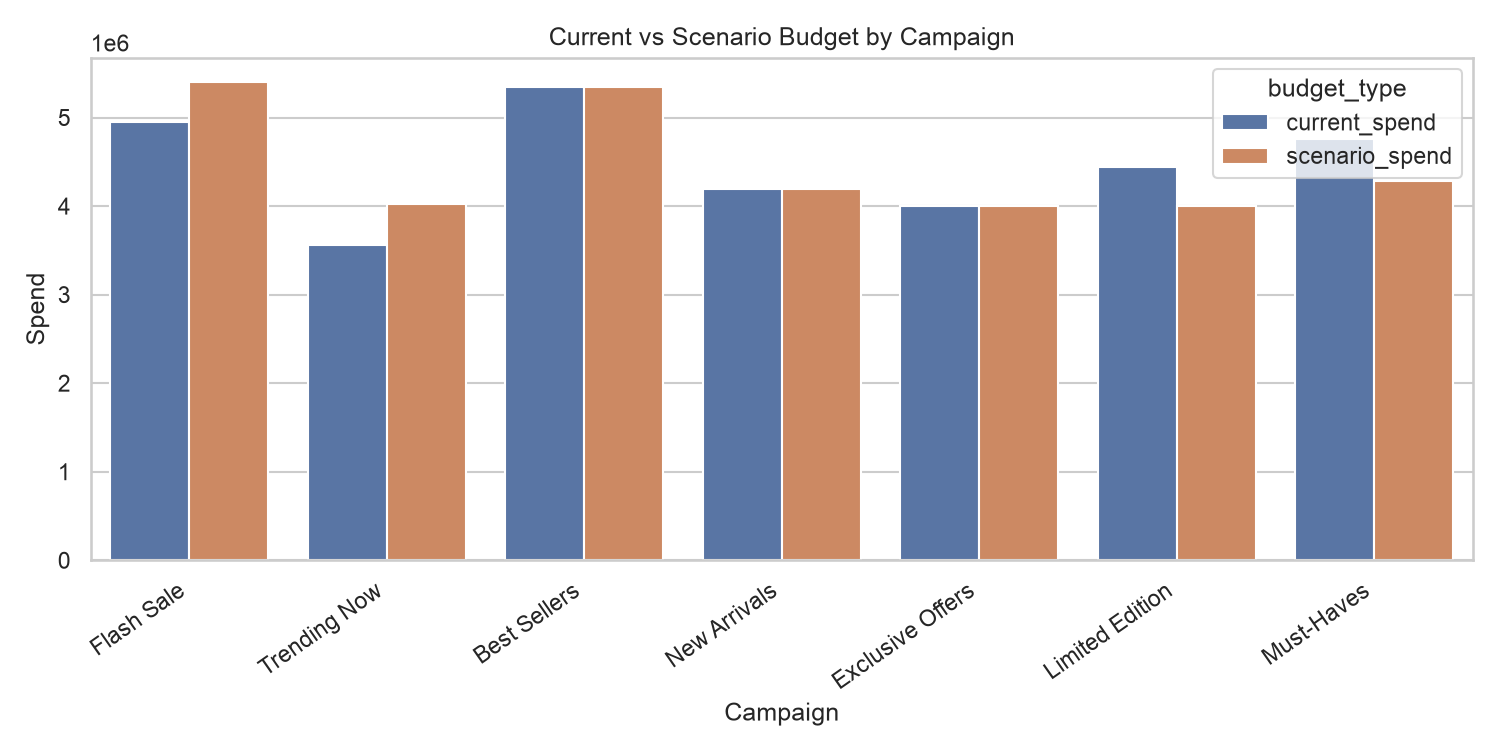
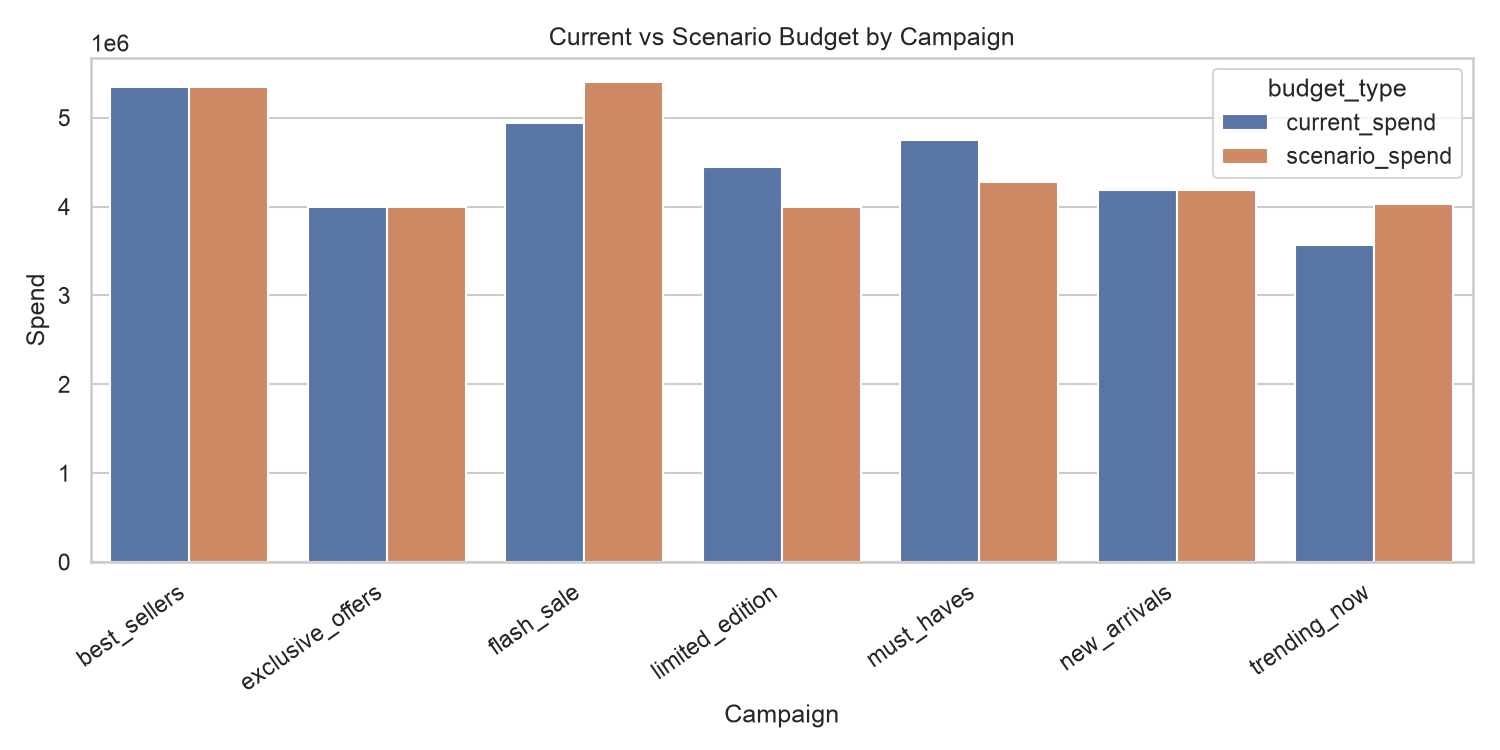
Connect scenario simulator to fitted model, add LOOCV evaluation

diff --git a/src/scenarios.py b/src/scenarios.py
@@ -3,6 +3,7 @@ import pandas as pd
 import numpy as np
 
 WEEKLY_INPUT_PATH = Path("outputs/weekly_campaign_dataset.csv")
+MODEL_INPUT_PATH = Path("outputs/campaign_model_dataset.csv")
 SCENARIO_OUTPUT_PATH = Path("outputs/campaign_scenario_results.csv")
 
 
@@ -36,69 +37,95 @@ def summarize_campaign_performance(weekly_campaign: pd.DataFrame) -> pd.DataFram
     return campaign_perf.sort_values("roas", ascending=False)
 
 
-def simulate_campaign_budget_shift(
+def campaign_to_col(name: str) -> str:
+    return f"spend_{name.strip().lower().replace(' ', '_').replace('-', '_')}"
+
+
+def simulate_campaign_budget_shift_model(
+    model,
+    model_df: pd.DataFrame,
     campaign_perf: pd.DataFrame,
     shift_pct: float = 0.10,
     top_n: int = 2,
     bottom_n: int = 2,
-) -> pd.DataFrame:
-    campaign_perf = campaign_perf.sort_values("roas", ascending=False).copy()
+) -> dict:
+    """Reallocates budget from bottom-ROAS to top-ROAS campaigns, then re-predicts
+    revenue with the fitted Ridge model instead of assuming flat ROAS.
+    """
+    ranked = campaign_perf.sort_values("roas", ascending=False)
+    top_campaigns = ranked.head(top_n)["campaign"].tolist()
+    bottom_campaigns = ranked.tail(bottom_n)["campaign"].tolist()
 
-    if campaign_perf["campaign"].nunique() < 2:
-        raise ValueError("Need at least 2 campaigns for campaign-level budget reallocation.")
+    top_cols = [campaign_to_col(c) for c in top_campaigns]
+    bottom_cols = [campaign_to_col(c) for c in bottom_campaigns]
 
-    top_campaigns = campaign_perf.head(top_n)["campaign"].tolist()
-    bottom_campaigns = campaign_perf.tail(bottom_n)["campaign"].tolist()
+    feature_cols = [c for c in model_df.columns if c not in ["week_start", "revenue"]]
+    baseline_X = model_df[feature_cols].copy()
+    scenario_X = baseline_X.copy()
 
-    current_budget = campaign_perf.set_index("campaign")["spend"].to_dict()
-    scenario_budget = current_budget.copy()
+    shift_amounts = baseline_X[bottom_cols] * shift_pct
+    scenario_X[bottom_cols] = baseline_X[bottom_cols] - shift_amounts
+    weekly_total_shift = shift_amounts.sum(axis=1)
+    for col in top_cols:
+        scenario_X[col] = baseline_X[col] + weekly_total_shift / len(top_cols)
 
-    total_shift = 0
-    for campaign in bottom_campaigns:
-        shift_amt = current_budget[campaign] * shift_pct
-        scenario_budget[campaign] -= shift_amt
-        total_shift += shift_amt
+    baseline_pred = model.predict(baseline_X)
+    scenario_pred = model.predict(scenario_X)
 
-    for campaign in top_campaigns:
-        scenario_budget[campaign] += total_shift / len(top_campaigns)
+    weekly_results = pd.DataFrame({
+        "week_start": model_df["week_start"],
+        "baseline_predicted_revenue": baseline_pred,
+        "scenario_predicted_revenue": scenario_pred,
+    })
+    weekly_results["revenue_lift"] = (
+        weekly_results["scenario_predicted_revenue"] - weekly_results["baseline_predicted_revenue"]
+    )
 
-    scenario_df = pd.DataFrame({
-        "campaign": list(current_budget.keys()),
-        "current_spend": list(current_budget.values()),
-        "scenario_spend": [scenario_budget[c] for c in current_budget.keys()],
+    spend_summary = pd.DataFrame({
+        "campaign": [c.replace("spend_", "") for c in feature_cols if c.startswith("spend_")],
+        "current_spend": [baseline_X[c].sum() for c in feature_cols if c.startswith("spend_")],
+        "scenario_spend": [scenario_X[c].sum() for c in feature_cols if c.startswith("spend_")],
     })
 
-    scenario_df = scenario_df.merge(
-        campaign_perf[["campaign", "roas", "conversion_rate"]],
-        on="campaign",
-        how="left",
-    )
+    totals = {
+        "total_baseline_predicted_revenue": weekly_results["baseline_predicted_revenue"].sum(),
+        "total_scenario_predicted_revenue": weekly_results["scenario_predicted_revenue"].sum(),
+        "total_predicted_revenue_lift": weekly_results["revenue_lift"].sum(),
+    }
 
-    scenario_df["projected_revenue_current"] = scenario_df["current_spend"] * scenario_df["roas"]
-    scenario_df["projected_revenue_scenario"] = scenario_df["scenario_spend"] * scenario_df["roas"]
-    scenario_df["projected_revenue_lift"] = (
-        scenario_df["projected_revenue_scenario"] - scenario_df["projected_revenue_current"]
-    )
-
-    return scenario_df.sort_values("projected_revenue_lift", ascending=False)
+    return {
+        "weekly_results": weekly_results,
+        "spend_summary": spend_summary,
+        "totals": totals,
+    }
 
 
-def save_campaign_scenario_results(df: pd.DataFrame, path: Path = SCENARIO_OUTPUT_PATH) -> Path:
+def save_campaign_scenario_results(spend_summary: pd.DataFrame, path: Path = SCENARIO_OUTPUT_PATH) -> Path:
     path.parent.mkdir(parents=True, exist_ok=True)
-    df.to_csv(path, index=False)
+    spend_summary.to_csv(path, index=False)
     return path
 
 
 if __name__ == "__main__":
+    from src.model import fit_mmm_lite_campaign
+
     weekly_campaign = load_weekly_campaign_data(WEEKLY_INPUT_PATH)
+    model_df = pd.read_csv(MODEL_INPUT_PATH, parse_dates=["week_start"])
     campaign_perf = summarize_campaign_performance(weekly_campaign)
-    scenario_df = simulate_campaign_budget_shift(
-        campaign_perf,
+
+    model, preds, metrics, coef_df = fit_mmm_lite_campaign(model_df)
+
+    scenario = simulate_campaign_budget_shift_model(
+        model=model,
+        model_df=model_df,
+        campaign_perf=campaign_perf,
         shift_pct=0.10,
         top_n=2,
         bottom_n=2,
     )
-    save_path = save_campaign_scenario_results(scenario_df, SCENARIO_OUTPUT_PATH)
+
+    save_path = save_campaign_scenario_results(scenario["spend_summary"], SCENARIO_OUTPUT_PATH)
 
     print(f"Saved scenario results to: {save_path}")
-    print(scenario_df)
+    print(scenario["totals"])
+    print(scenario["spend_summary"])

diff --git a/src/model.py b/src/model.py
@@ -3,6 +3,7 @@ import pandas as pd
 import numpy as np
 from sklearn.linear_model import Ridge
 from sklearn.metrics import r2_score, mean_absolute_error
+from sklearn.model_selection import LeaveOneOut, cross_val_predict
 
 INPUT_PATH = Path("data/processed/final_dataset.csv")
 WEEKLY_OUTPUT_PATH = Path("outputs/weekly_campaign_dataset.csv")
@@ -110,3 +111,18 @@ if __name__ == "__main__":
 
     print(metrics)
     print(coef_df.head())
+
+def evaluate_model_cv(model_df: pd.DataFrame, alpha: float = 1.0) -> dict:
+    """Leave-one-out CV — appropriate given only ~27 weekly rows.
+    In-sample R²/MAE are optimistic; this gives an honest generalization estimate.
+    """
+    X_cols = [c for c in model_df.columns if c not in ["week_start", "revenue"]]
+    X = model_df[X_cols]
+    y = model_df["revenue"]
+
+    cv_preds = cross_val_predict(Ridge(alpha=alpha), X, y, cv=LeaveOneOut())
+
+    return {
+        "cv_r2": r2_score(y, cv_preds),
+        "cv_mae": mean_absolute_error(y, cv_preds),
+    }